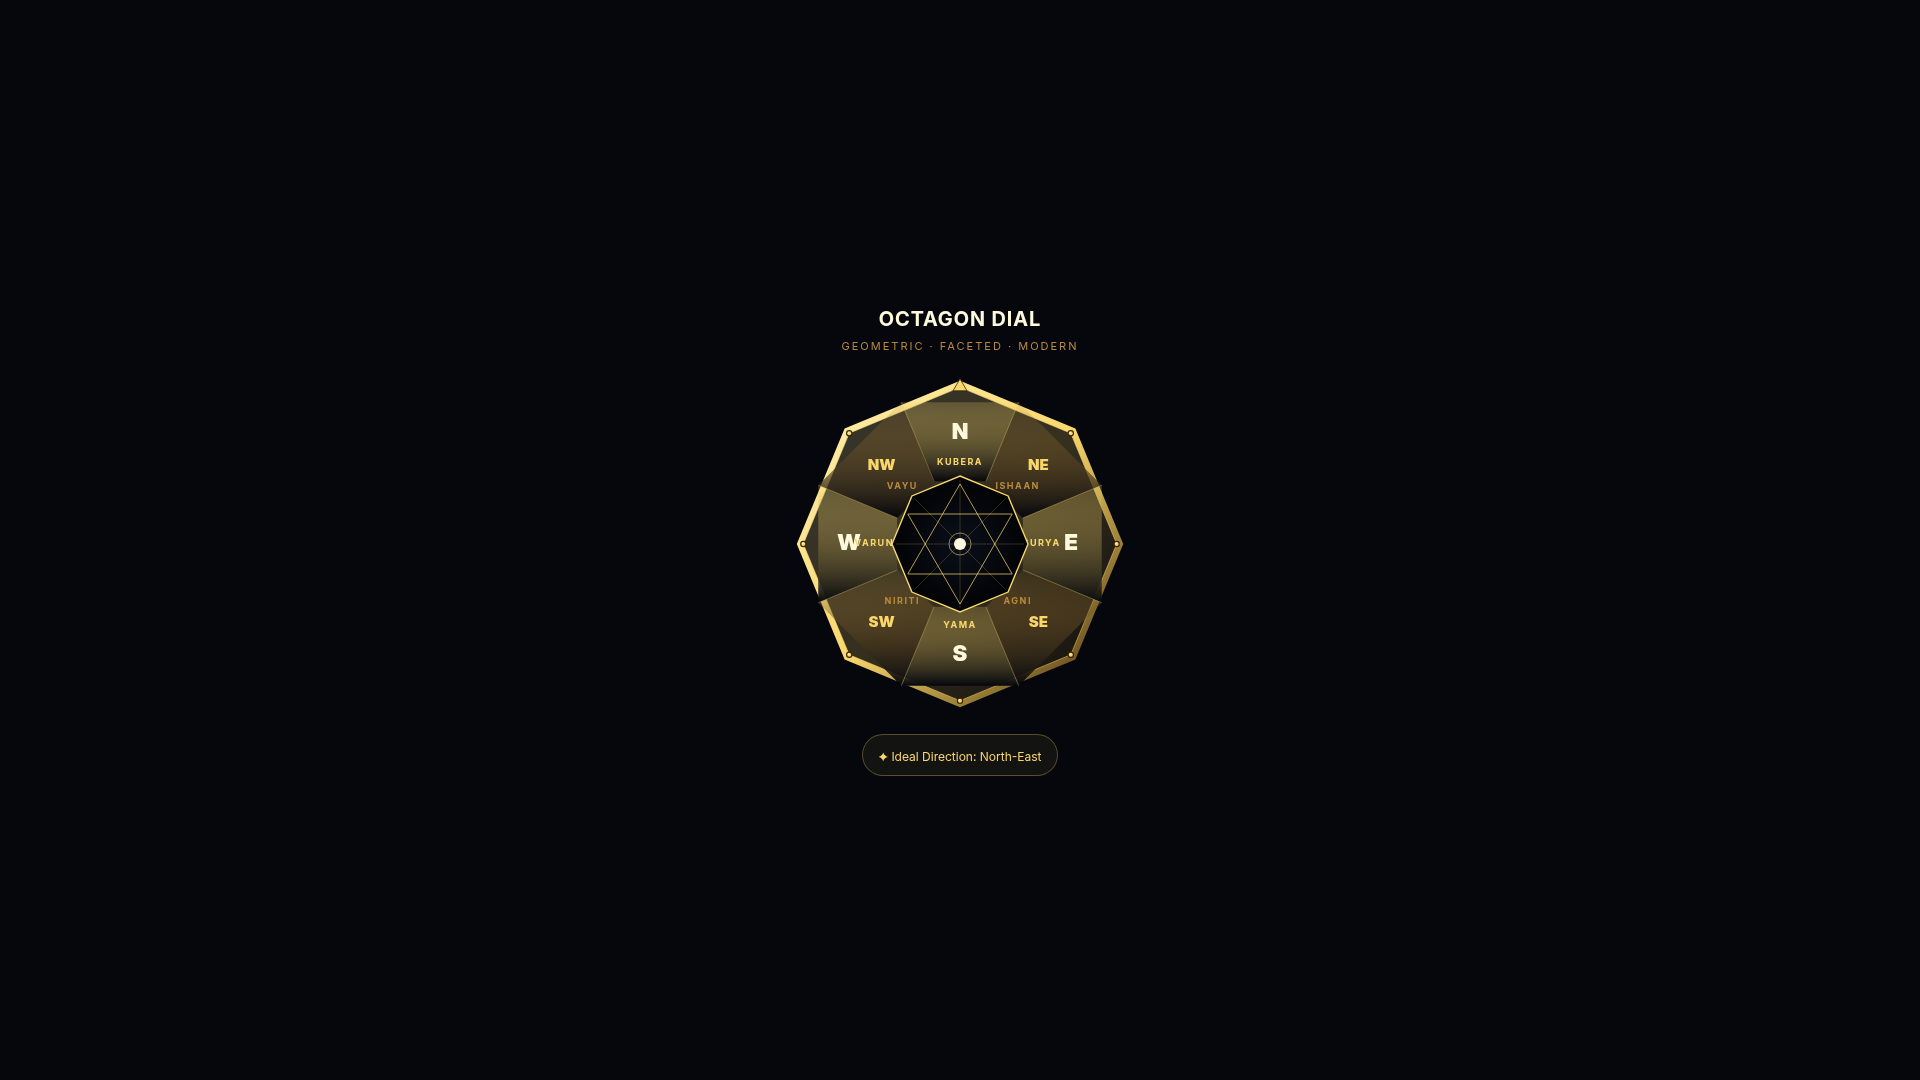
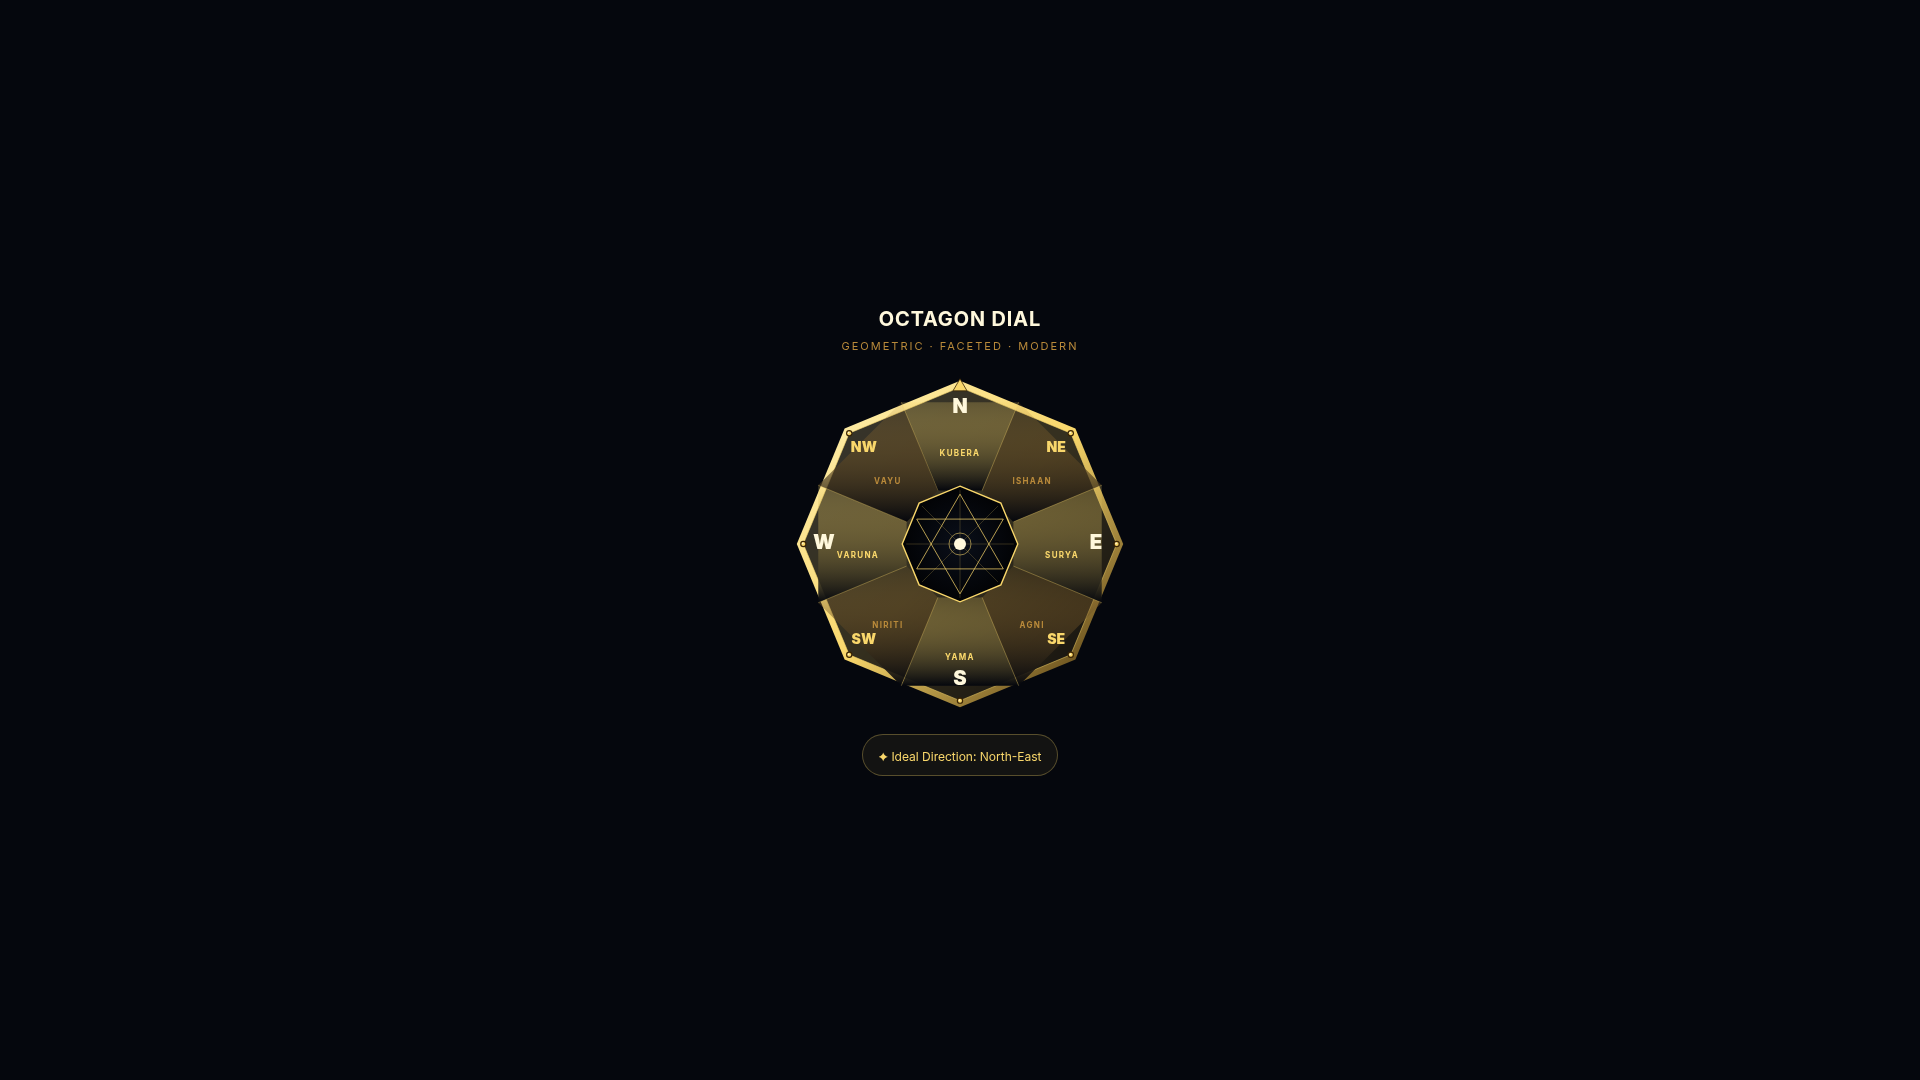
Improve octagon dial layout for better label and deity name positioning
Adjusted radius constants for inner octagon, directional labels, and deity names within the Octagon component to prevent overlapping text and improve visual clarity.

Replit-Commit-Author: Agent
Replit-Commit-Session-Id: 79e8f3f7-ba36-492d-84f7-7cedb8fe4c4e
Replit-Commit-Checkpoint-Type: full_checkpoint
Replit-Commit-Event-Id: 7d9f309a-09b3-4455-8d5f-f6cd0ed91ec0
Replit-Commit-Screenshot-Url: https://storage.googleapis.com/screenshot-production-us-central1/18370deb-aa55-4d9f-8391-57df5a15cf7a/79e8f3f7-ba36-492d-84f7-7cedb8fe4c4e/OVRyHiK
Replit-Helium-Checkpoint-Created: true

Changed region(s): [[0.4062, 0.3972, 0.5625, 0.6111]]

diff --git a/artifacts/mockup-sandbox/src/components/mockups/compass-layouts/Octagon.tsx b/artifacts/mockup-sandbox/src/components/mockups/compass-layouts/Octagon.tsx
@@ -16,7 +16,9 @@ const DIRS = [
 const SIZE = 340;
 const CX = SIZE / 2, CY = SIZE / 2;
 const R_OUT = SIZE * 0.48;
-const R_INNER = SIZE * 0.20;
+const R_INNER = SIZE * 0.17;
+const R_LABEL = SIZE * 0.40;  // short code near outer edge
+const R_DEITY = SIZE * 0.30;  // deity name in middle of sector ring, clear of center
 
 // 8 vertices of an octagon (rotated so flat edges face N/S/E/W would be weird; use vertex-at-top)
 function octagonPoints(r: number) {
@@ -109,19 +111,17 @@ export function Octagon() {
         {/* Direction labels */}
         {DIRS.map(d => {
           const a = (-Math.PI / 2) + (d.idx * Math.PI * 2) / 8;
-          const rLabel = R_OUT * 0.68;
-          const rDeity = R_OUT * 0.50;
-          const lx = CX + rLabel * Math.cos(a), ly = CY + rLabel * Math.sin(a);
-          const dx = CX + rDeity * Math.cos(a), dy = CY + rDeity * Math.sin(a);
+          const lx = CX + R_LABEL * Math.cos(a), ly = CY + R_LABEL * Math.sin(a);
+          const dx = CX + R_DEITY * Math.cos(a), dy = CY + R_DEITY * Math.sin(a);
           const isCard = d.idx % 2 === 0;
           return (
             <g key={`l-${d.short}`}>
               <text x={lx} y={ly} textAnchor="middle" dominantBaseline="middle"
-                fill={isCard ? "#fff8dc" : GOLD} fontSize={isCard ? 22 : 15} fontWeight="900">
+                fill={isCard ? "#fff8dc" : GOLD} fontSize={isCard ? 20 : 14} fontWeight="900">
                 {d.short}
               </text>
-              <text x={dx} y={dy} textAnchor="middle" dominantBaseline="middle"
-                fill={d.bright ? GOLD : GOLD_DIM} fontSize={9} fontWeight="700" letterSpacing="1.5">
+              <text x={dx} y={dy + (isCard ? 12 : 10)} textAnchor="middle" dominantBaseline="middle"
+                fill={d.bright ? GOLD : GOLD_DIM} fontSize={8} fontWeight="700" letterSpacing="1.3">
                 {d.deity}
               </text>
             </g>